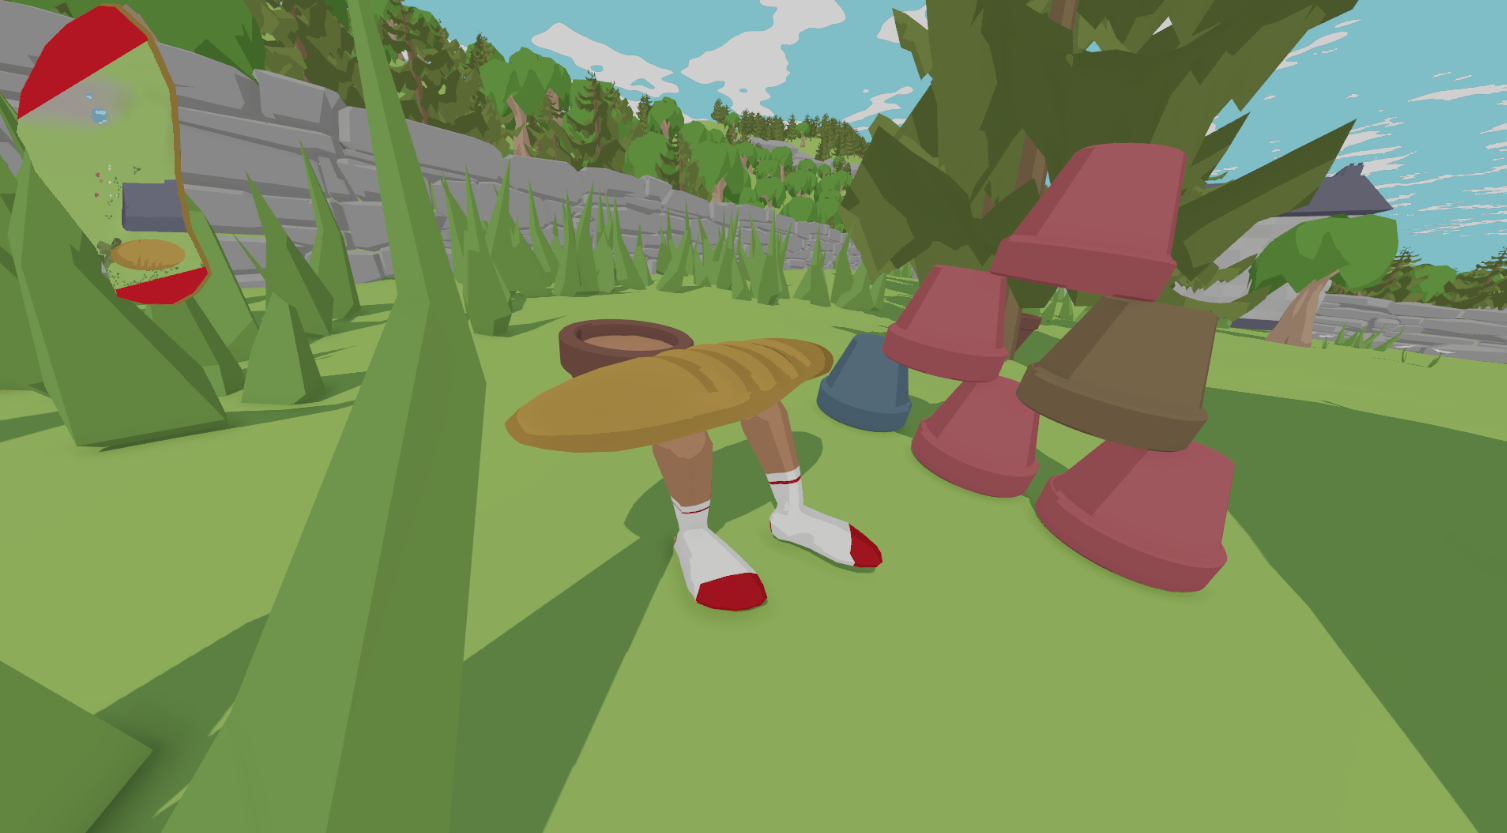
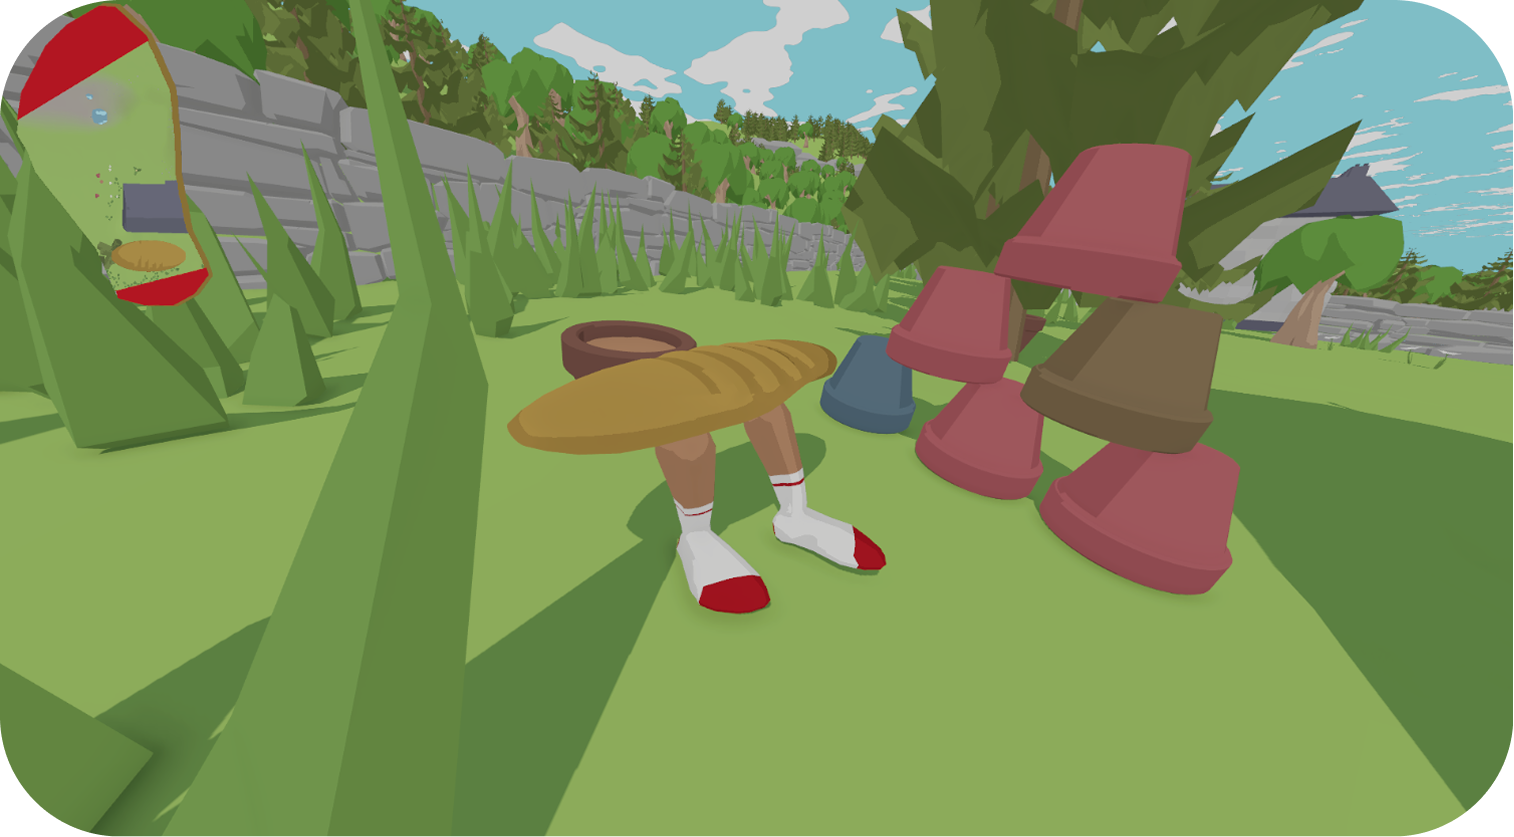
more

Changed region(s): [[0.0, 0.0, 1.0, 1.0], [0.0, 0.0, 0.0624, 0.0936]]

diff --git a/nowhere.html b/nowhere.html
@@ -8,7 +8,6 @@
 	<link rel="stylesheet" href="CSS/style.css">
 	  <link rel="icon" href="favicon.png" type="image/png">
 	<link href='https://fonts.googleapis.com/css?family=PT Sans' rel='stylesheet'>
-
 	<title>projects</title>
 	<style>
         .imageContainer {
@@ -21,11 +20,10 @@
             height: auto;
 			padding: 8px;
         }
-
         body {
-		  background-image: url('assets/trres3.png');
+		  background-image: url('assets/tres3blur.jpg');
 		}
-
+    </style>
     </style>
   </head>  
   <body>
@@ -39,44 +37,25 @@
 		});
 		</script>  
 	</div>
+	<div class="title">
+		<img src="assets/titles/nae.png">
+	</div>
     <div id="wrapper">
-		<h2> Nowhere Actually Existing</h2>
-		<div class="slider">
-			<div class="slides">
-			  <img id="img-6" src="assets/daytime2.png" alt="Image 1"/>
-			  <img id="img-7" src="assets/cloud2.png" alt="Image 2"/>
-			  <img id="img-8" src="assets/daytime3.png" alt="Image 3"/>
-			  <img id="img-9" src="assets/cloud1.png" alt="Image 4"/>
-			  <img id="img-10" src="assets/nae2.png" alt="Image 5"/>
-			  <img id="img-11" src="assets/nae3.png" alt="Image 5"/>
-			</div>
-			<div class="navigation-button">
-			  <button class="prev" onclick="changeSlide(0, -1)">&#10094;</button>
-			  <button class="next" onclick="changeSlide(0, 1)">&#10095;</button>
-			</div>
-		  </div>
-	  <p>
+		<br>
+	<div style="left: 0; width: 100%; height: 0; position: relative; padding-bottom: 56.25%;"><iframe src="https://www.youtube.com/embed/CwK44Iyrxb8?rel=0" style="top: 0; left: 0; width: 100%; height: 100%; position: absolute; border: 0;" allowfullscreen scrolling="no" allow="accelerometer; clipboard-write; encrypted-media; gyroscope; picture-in-picture; web-share;"></iframe></div>
+ 		<p>
 		Worlding piece I created for my final year project at Goldsmiths University, developed in Unity. It has existed in multiple forms: a downloadable game, an immersive, meditative space which ran at Goldsmiths in May 2023 and an interactive film at Thin Air, Beams in June 2023. Its blurb is:  
 		<br>
 		<br>
 		This is Nowhere Actually Existing, and at its core, it is exactly that. It is a digital worldbuilding piece illustrating a place that doesn’t exist, and won’t ever exist. It is a world that solely comes from my head and my imagination, embodying ideas of simulation being a presentation of a person’s perception of reality, originally coming from game designer Doris C. Rusch. Furthermore, it depicts an idyllic, sustainable community, with animals running around freely and wildly, depicting a Utopia, and in particular, my utopia, as it is my perception of reality. The name in particular comes from the book The Village Against The World which discusses the village and enhabitants of Marinaleda in Spain who created a ‘Utopia’ and a foundation for a cooperative way of life. However, this world is only a simulation. However perfect it may present as, it has its flaws and it calls on you to find them. This utopia isn’t real, and will assure you you’re aware of it. 
 		<br>
 		<p> I documented my creative process and project development on my blog <a href="https://mtall3.tumblr.com/">here</a></p>
-		<br>
-		<div id="itchframe">
-			<iframe frameborder="0" src="https://itch.io/embed/1969480?linkback=true&amp;border_width=5&amp;bg_color=f1f1f1&amp;fg_color=363636&amp;link_color=363636&amp;border_color=363636" width="600" height="175"><a href="https://matallon.itch.io/no">Nowhere Actually Existing by matallon</a></iframe>
-		</div>
-		<br>
 	</p>
 	<p> 
 		This piece ran live at Goldsmiths University's SIML space and then at The Beams, both in London. The Goldsmith's version removed the interactivity from the piece, whilst at Beams a limited amount of interaction was added back in to create an interactive film by providing some audience members with an Xbox controller to change the scenery across the screens. Both versions included sound from VenAur, which was created with Pure Data. Here Vendela (VenAur) speaks on the collaboration: 
 	</p>
 		<div id="quoted">
 			<p> In parallel with the visuals of the digital worldbuilding piece "This is Nowhere Actually Existing," I crafted an accompanying audio landscape that harmoniously complemented the visual elements. The audio was created using Pure Data and consisted of layer of ambience which was created using techniques such as the manipulation of noise and phasors. Drawing inspiration from the nature portrayed in the visuals, I crafted a composition that intertwines tranquility, excitement, and subtle elements wind. By integrating the auditory and visual elements, our collaboration aimed to transport the audience to a realm that blurs the boundaries between reality and imagination, inviting them to explore the simulated utopia.</p>
-		</div>
-		<h3> At Goldsmiths:</h3>
-		<div id="itchframe">
-			<iframe width="600" height="315" src="https://www.youtube.com/embed/CwK44Iyrxb8" title="YouTube video player" frameborder="0" allow="accelerometer; autoplay; clipboard-write; encrypted-media; gyroscope; picture-in-picture; web-share" allowfullscreen></iframe>
 		</div>
 		<h3> At Beams: </h3>
 		<div class="imageContainer">
@@ -90,8 +69,23 @@
 				<img id="img-12" src="assets/beams3.png" alt="Image 5"/>
 			</a>
 		</div>
+		<h3> Game version: </h3>
+			<div class="slider">
+			<div class="slides">
+			  <img id="img-6" src="assets/daytime2.png" alt="Image 1"/>
+			  <img id="img-7" src="assets/cloud2.png" alt="Image 2"/>
+			  <img id="img-8" src="assets/daytime3.png" alt="Image 3"/>
+			  <img id="img-9" src="assets/cloud1.png" alt="Image 4"/>
+			  <img id="img-10" src="assets/nae2.png" alt="Image 5"/>
+			  <img id="img-11" src="assets/nae3.png" alt="Image 5"/>
+			</div>
+			<div class="navigation-button">
+			  <button class="prev" onclick="changeSlide(0, -1)">&#10094;</button>
+			  <button class="next" onclick="changeSlide(0, 1)">&#10095;</button>
+			</div>
+		  </div>
+		  <br>
 	</div>
-
     <div id="footer">
 		@marytallontire
 	</div>

diff --git a/consumptionmodel.html b/consumptionmodel.html
@@ -5,9 +5,16 @@
 	<meta charset="utf-8">
     <meta name="viewport" content="width=device-width">
 	<script src="https://code.jquery.com/jquery-3.6.0.min.js"></script>
+    <link rel="stylesheet" type="text/css" href="//fonts.googleapis.com/css?family=PT+Sans" />
+	
 	<link rel="stylesheet" href="CSS/style.css">
 	  <link rel="icon" href="favicon.png" type="image/png">
 	<title>rarity</title>
+	<style>
+        body {
+		  background-image: url('assets/tres3blur.jpg');
+		}
+    </style>
   </head>  
   <body>
 	<div class="header" id="myHeader">
@@ -20,26 +27,25 @@
 		});
 		</script>  
 	</div>
+	<div class="title">
+		<img src="assets/titles/consumption.png">
+	</div>
+	<br>
     <div id="wrapper">
-		<h2> Rarity </h2>
-		<img src="assets/rarity.png">
+		<img src="assets/consumptionmodel/progress.png">
 		<p>
-			Narrative game I developed in May 2023, created in Unity using Yarn Spinner. 
+			Interactive worlding piece developed in Unity. 
 			<br> 
 			<br>
-			Explore and re-organise the small landscapes and story so can get back to reality again. 
+			Interactive experience critiquing the internet, capitalism and digital oligarchy using digital worldbuilding. The game itself acts as a mechanism of the world's oligarchy, and is an embodyment of the internet consumption model. 
 			<br>
-			Short little 3D, first person narrative game about life continuing after COVID and the weird time skip that occured for people as their lives drastically changed in an ephemeral but 3 year time period.
+		<br>
+
+			Will be available to download soon! 
 			<br>
-			 Explores themes and feelings around University, friendships, the notion of time passing and experiences that feel over before it's they've even really begun. 
 		</p> 
 		<br>
-		<a href="https://voidspacezine.com/rarity/">Featured in the 9th Edition of the Voidspace Zine</a>
 		<br>
-		<br>
-		<div id="itchframe">
-			<iframe frameborder="0" src="https://itch.io/embed/2015248" width="552" height="167"><a href="https://matallon.itch.io/rarity">rarity by matallon</a></iframe>
-		</div>
 		  <br>
 	  </p>
 	</div>

diff --git a/breadleg.html b/breadleg.html
@@ -11,7 +11,7 @@
 
 	  <style>
         body {
-		  background-image: url('assets/trres3.png');
+		  background-image: url('assets/tres3blur.jpg');
 		}
     </style>
 	<title>Breadleg</title>
@@ -31,25 +31,12 @@
 		<div class="title">
 			<img src="assets/titles/breadleg.png">
 		</div>
-		<img src="assets/breadleg/pots.png">
-		<p>
-			 
-			<br> 
-			<br>
-			Explore and re-organise the small landscapes and story so can get back to reality again. 
-			<br>
-			Short little 3D, first person narrative game about life continuing after COVID and the weird time skip that occured for people as their lives drastically changed in an ephemeral but 3 year time period.
-			<br>
-			 Explores themes and feelings around University, friendships, the notion of time passing and experiences that feel over before it's they've even really begun. 
-		</p> 
-		<br>
-		<a href="https://voidspacezine.com/rarity/">Featured in the 9th Edition of the Voidspace Zine</a>
+		<div style="left: 0; width: 100%; height: 0; position: relative; padding-bottom: 56.25%;"><iframe src="https://www.youtube.com/embed/y7oVaCAc4f4?rel=0" style="top: 0; left: 0; width: 100%; height: 100%; position: absolute; border: 0;" allowfullscreen scrolling="no" allow="accelerometer; clipboard-write; encrypted-media; gyroscope; picture-in-picture; web-share;"></iframe></div>
+		<p> Breadleg is an absurdist, comedy game about running round a scottish village as a piece of bread with legs. Encounter the people of the village and collect socks to help you escape without being eaten, whilst maybe getting involved in a bit of mischief along the way.</p> 
+		<p> Solo project. Released on itch.io on 17th May 2025</p>
 		<br>
 		<br>
-		<div id="itchframe">
-			<iframe frameborder="0" src="https://itch.io/embed/2015248" width="552" height="167"><a href="https://matallon.itch.io/rarity">rarity by matallon</a></iframe>
-		</div>
-		  <br>
+		<img src="assets/breadleg/brids.png">
 	  </p>
 	</div>
     <div id="footer">

diff --git a/gallery.html b/gallery.html
@@ -15,7 +15,7 @@
 	<canvas style="display:none" id="canvas"></canvas>
     <style>
         body {
-		  background-image: url('assets/trres3.png');
+		  background-image: url('assets/tres3blur.jpg');
 		}
     </style>
   </head>  
@@ -35,31 +35,30 @@
 	</div>
 	<br>
 	<div class="grid" class="relative">
-			<img src="assets/rect.png" style="filter: blur(4px); backdrop-filter: blur(1px); " class="background">
 				<div class="overlay">
 				<div class="row">
 				<div class="grid">
 					<div class="column">
-						<a href="breadleg.html"><img src="assets/portfolio/breadleg.png" style="width:100%"></a>
+						<a href="breadleg.html"><img src="assets/portfolio/breadleg.png"></a>
 					</div>
 					<div class="column">
-						<a href="consumptionmodel.html"><img src="assets/portfolio/consumptionmodel.png" style="width:100%"></a>
+						<a href="consumptionmodel.html"><img src="assets/portfolio/consumptionmodel.png"></a>
 					</div>
 					<div class="column">
-						<a href="nowhere.html"><img src="assets/portfolio/nae.png" style="width:100%"></a>
+						<a href="nowhere.html"><img src="assets/portfolio/nae.png"></a>
 					</div>
 				</div> 
 				</div>
 			<div class="grid">
 				<div class="row">
 					<div class="column">
-						<a href="rarity.html"><img src="assets/portfolio/rarity.png" style="width:100%"></a>
+						<a href="rarity.html"><img src="assets/portfolio/rarity.png"></a>
 					</div>
 					<div class="column">
-						<a href="vegslop.html"><img src="assets/portfolio/vegslop.png" style="width:100%"></a>
+						<a href="vegslop.html"><img src="assets/portfolio/vegslop.png"></a>
 					</div>
 					<div class="column">
-						<a href="gigvisuals.html"><img src="assets/portfolio/concertvisuals.png" style="width:100%"></a>
+						<a href="gigvisuals.html"><img src="assets/portfolio/concertvisuals.png"></a>
 					</div>
 				</div> 
 			</div>

diff --git a/rarity.html b/rarity.html
@@ -8,6 +8,11 @@
 	<link rel="stylesheet" href="CSS/style.css">
 	  <link rel="icon" href="favicon.png" type="image/png">
 	<title>rarity</title>
+	<style>
+        body {
+		  background-image: url('assets/tres3blur.jpg');
+		}
+    </style>
   </head>  
   <body>
 	<div class="header" id="myHeader">
@@ -34,7 +39,8 @@
 			 Explores themes and feelings around University, friendships, the notion of time passing and experiences that feel over before it's they've even really begun. 
 		</p> 
 		<br>
-		<a href="https://voidspacezine.com/rarity/">Featured in the 9th Edition of the Voidspace Zine</a>
+		<a href="https://voidspacezine.com/rarity/">Featured in the 9th Edition of the Voidspace Zine and Voidspace Live 2024</a>
+		<a href="https://pizzapranks.itch.io/indiepocalypse-53"> and the 53rd edition of Indiepocalpse!</a>
 		<br>
 		<br>
 		<div id="itchframe">
